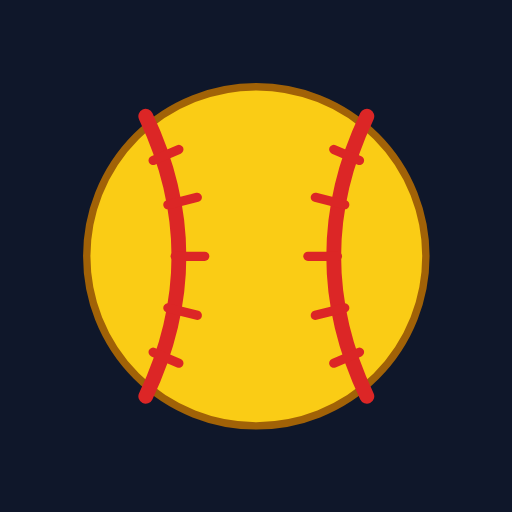
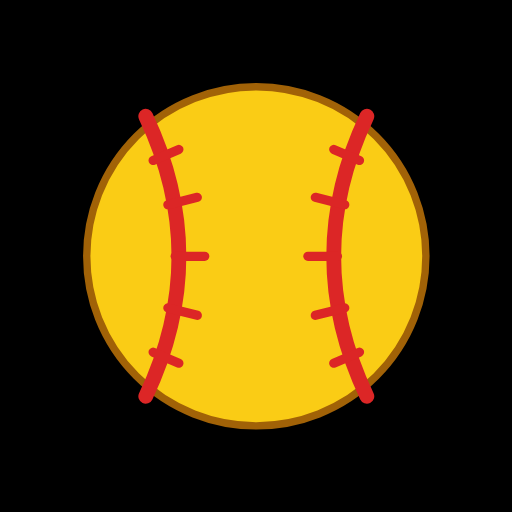
True black theme
Pure black background with dark gray panels (nicer on OLED phones),
matching browser theme color, manifest, and app icon background.

Claude-Session: https://claude.ai/code/session_01TYGT31Ea1mPJB1qFATaZam

diff --git a/src/index.css b/src/index.css
@@ -1,9 +1,9 @@
 :root {
   color-scheme: dark;
-  --bg: #0f172a;
-  --panel: #1e293b;
-  --panel-2: #273549;
-  --border: #334155;
+  --bg: #000000;
+  --panel: #141414;
+  --panel-2: #1f1f1f;
+  --border: #2e2e2e;
   --text: #e2e8f0;
   --muted: #94a3b8;
   --accent: #38bdf8;
@@ -134,8 +134,8 @@ label { font-size: 0.85rem; color: var(--muted); display: block; margin-bottom: 
   font-size: 0.9rem;
   color: var(--text);
 }
-.zone-in { background: var(--panel-2); border: 1px solid #46586f; }
-.zone-out { background: #16202f; border: 1px dashed var(--border); color: var(--muted); }
+.zone-in { background: var(--panel-2); border: 1px solid #3a3a3a; }
+.zone-out { background: #0a0a0a; border: 1px dashed var(--border); color: var(--muted); }
 .zone-selected { outline: 3px solid var(--accent); outline-offset: -1px; font-weight: 700; }
 .zone-cell:disabled { opacity: 1; }
 

diff --git a/vite.config.ts b/vite.config.ts
@@ -12,8 +12,8 @@ export default defineConfig({
         name: 'Pitch Tracker',
         short_name: 'PitchTrack',
         description: 'Softball pitch tracking and scouting',
-        theme_color: '#0f172a',
-        background_color: '#0f172a',
+        theme_color: '#000000',
+        background_color: '#000000',
         display: 'standalone',
         icons: [
           { src: 'pwa-192.png', sizes: '192x192', type: 'image/png' },

diff --git a/index.html b/index.html
@@ -3,7 +3,7 @@
   <head>
     <meta charset="UTF-8" />
     <meta name="viewport" content="width=device-width, initial-scale=1.0, maximum-scale=1.0, user-scalable=no" />
-    <meta name="theme-color" content="#0f172a" />
+    <meta name="theme-color" content="#000000" />
     <link rel="apple-touch-icon" href="/pitch-tracker/pwa-192.png" />
     <title>Pitch Tracker</title>
   </head>